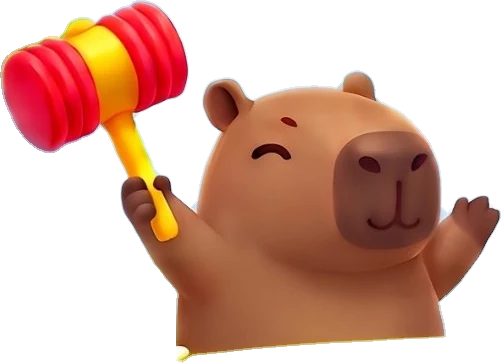
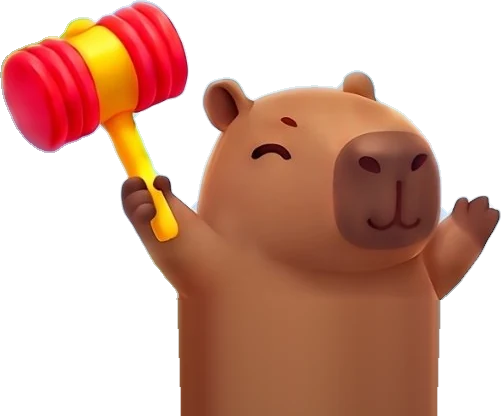
Home: extend the capybara's body below the waist so no cut edge shows
Claude-Session: https://claude.ai/code/session_0151HyQbunyEVHQk27fvCMAu

Changed region(s): [[0.0, 0.0, 1.0, 1.0]]

diff --git a/index.html b/index.html
@@ -19,7 +19,7 @@ body{margin:0;font:14px system-ui,sans-serif}
 </style>
 <script>
 (function () {
-  var BUILD = '20261109151933';
+  var BUILD = '20261109152102';
   function check() {
     fetch('version.txt?t=' + Date.now(), { cache: 'no-store' }).then(function (r) { return r.ok ? r.text() : BUILD; }).then(function (v) {
       v = (v || '').trim();
@@ -378,7 +378,7 @@ p.res-tap{display:flex;align-items:center;justify-content:center;gap:4px;font-fa
 @media (prefers-reduced-motion: reduce){*{animation-duration:1ms!important;animation-iteration-count:1!important}}
 
 /* ===== 3D redesign (backup of the previous look: backup/game.template.pre-redesign.html, git branch backup-pre-redesign) ===== */
-#home{background:#8FD3FF url(img/bg.webp?v=20261109151933) center bottom/cover no-repeat;background-attachment:local}
+#home{background:#8FD3FF url(img/bg.webp?v=20261109152102) center bottom/cover no-repeat;background-attachment:local}
 /* glancing over the shoulder: the art looks right, flipped half the time to look left */
 .char.peek.pl img.cimg{scale:-1 1}
 /* never squeeze the art to its box (some hosts add img{max-width:100%}) */
@@ -387,7 +387,7 @@ p.res-tap{display:flex;align-items:center;justify-content:center;gap:4px;font-fa
 /* duo: both seen from behind, and the capybara's back art reads smaller than the red panda's */
 #game.duo .char.capy img.cimg{scale:1.04}
 #game.duo .char.capy.peek.pl img.cimg{scale:-1.04 1.04}
-.fghill{position:absolute;left:0;top:0;width:100%;height:100%;z-index:1;pointer-events:none;background:url(img/hillfg.webp?v=20261109151933) center bottom/100% auto no-repeat}
+.fghill{position:absolute;left:0;top:0;width:100%;height:100%;z-index:1;pointer-events:none;background:url(img/hillfg.webp?v=20261109152102) center bottom/100% auto no-repeat}
 #home>.home-top,#home>.title,#home>.field{position:relative;z-index:2}
 #home>.fghill{position:absolute;flex:none;z-index:1}
 #home>.stage{z-index:0}
@@ -401,7 +401,7 @@ p.res-tap{display:flex;align-items:center;justify-content:center;gap:4px;font-fa
 .stage img.hc{flex:none;height:89.5%;width:auto;filter:drop-shadow(0 4px 6px rgba(40,60,20,.2))}
 .stage img.hc.pd{height:89%;translate:calc(var(--sh) * -.08) 0}
 /* capybara art from the mockup: hammer raised, cut at the waist, so it sits higher and the cut hides behind the hill */
-.stage img.hc.cu{translate:calc(var(--sh) * -.1) 0;height:calc(var(--sh) * .8);margin-bottom:calc(var(--sh) * .17)}
+.stage img.hc.cu{translate:calc(var(--sh) * -.1) 0;height:calc(var(--sh) * .917);margin-bottom:calc(var(--sh) * .053)}
 .stage .vsimg{flex:none;align-self:flex-end;height:calc(var(--sh) * .22);width:auto;margin:0 calc(var(--sh) * .01) calc(var(--sh) * .68) calc(var(--sh) * -.03);translate:calc(var(--sh) * -.15) 0;z-index:1;animation:bob 2.2s ease-in-out infinite;--r:0deg}
 .field{background:none;border-top:0;border-radius:0;padding-top:14px}
 .mcard{--d:color-mix(in srgb,var(--c) 70%,#5a2a3a);border:0;border-radius:24px;background:linear-gradient(180deg,color-mix(in srgb,var(--c) 70%,#fff) 0%,var(--c) 55%);box-shadow:0 6px 0 var(--d),0 10px 18px rgba(40,40,80,.22),inset 0 2px 0 rgba(255,255,255,.7)}
@@ -411,7 +411,7 @@ p.res-tap{display:flex;align-items:center;justify-content:center;gap:4px;font-fa
 .copy{color:#fff;opacity:.9;text-shadow:0 1px 3px rgba(0,0,0,.35)}
 @media (max-height:700px){.mmain{padding-block:6px}.micon{width:40px;height:40px}.mtext b{font-size:20px}.field{gap:9px;padding-top:8px}}
 /* game arena: the painted meadow; the opponent stands on the grassy ledge */
-#arena{background:#8FD3FF url(img/bg.webp?v=20261109151933) center 66%/cover no-repeat}
+#arena{background:#8FD3FF url(img/bg.webp?v=20261109152102) center 66%/cover no-repeat}
 #arena .sun,#arena .cloud,#arena .ground,#arena .ground2,#arena .groundT,#arena .groundT2,#arena .hill{display:none}
 .char img.cimg{height:100%;width:auto;display:block;animation:breathe 2.6s ease-in-out infinite;transform-origin:50% 100%;filter:drop-shadow(0 6px 5px rgba(30,50,20,.3));-webkit-user-drag:none;user-select:none}
 #char1 img.cimg{animation-delay:-1.3s}
@@ -433,7 +433,7 @@ p.res-tap{display:flex;align-items:center;justify-content:center;gap:4px;font-fa
 @keyframes drip{0%{transform:translateY(0);opacity:1}100%{transform:translateY(60px);opacity:0}}
 .tut-art.lobby img{height:100%;width:auto}
 /* letter tiles thrown on the first hit look like the toy block */
-.fly{background:url(img/block.webp?v=20261109151933) center/contain no-repeat;border:0;width:38px;height:38px;margin:-19px 0 0 -19px;box-shadow:none;color:#6B4A1E;padding-top:3px;box-sizing:border-box}
+.fly{background:url(img/block.webp?v=20261109152102) center/contain no-repeat;border:0;width:38px;height:38px;margin:-19px 0 0 -19px;box-shadow:none;color:#6B4A1E;padding-top:3px;box-sizing:border-box}
 </style>
 
 <style>
@@ -467,7 +467,7 @@ html,body{position:fixed;inset:0;overflow:hidden}
 <div id="app">
   <section id="home" class="screen">
     <div class="fghill" id="homeHill" aria-hidden="true"></div>
-    <div class="deco" aria-hidden="true"><img class="dtile" src="img/tileA.webp?v=20261109151933" alt="" style="left:3%;top:31%;--r:-8deg"><img class="dtile" src="img/tileQ.webp?v=20261109151933" alt="" style="right:3%;top:29%;--r:9deg;animation-delay:-1.2s"></div>
+    <div class="deco" aria-hidden="true"><img class="dtile" src="img/tileA.webp?v=20261109152102" alt="" style="left:3%;top:31%;--r:-8deg"><img class="dtile" src="img/tileQ.webp?v=20261109152102" alt="" style="right:3%;top:29%;--r:9deg;animation-delay:-1.2s"></div>
     <div class="home-top gut">
       <div class="lt-grp"><button class="pill" id="langBtn" type="button"></button><button class="pill nick-pill" id="nickBtn" type="button"></button></div>
       <div class="rt">
@@ -478,7 +478,7 @@ html,body{position:fixed;inset:0;overflow:hidden}
       </div>
     </div>
     <h1 class="title gut" aria-label="First n Last">
-      <img class="logo-img" src="img/logo.webp?v=20261109151933" alt="" draggable="false">
+      <img class="logo-img" src="img/logo.webp?v=20261109152102" alt="" draggable="false">
       <span class="ribbon" data-t="tagline"></span>
     </h1>
     <div class="stage" id="homeCast"></div>
@@ -503,7 +503,7 @@ html,body{position:fixed;inset:0;overflow:hidden}
       <div class="ground"></div><div class="ground2"></div><div class="groundT"></div><div class="groundT2"></div><div class="hill"></div>
       <div class="card" id="card1"><div class="nm" id="name1"></div><div class="hearts" id="hearts1"></div></div>
       <div class="hud" id="hud"><div class="clkwrap" id="clkW"><div class="clock" id="clock">2:00</div><div class="hint-cd" id="hintCd"></div></div></div>
-      <img class="plat" src="img/plat.webp?v=20261109151933" alt="" draggable="false"><div class="char" id="char1"></div>
+      <img class="plat" src="img/plat.webp?v=20261109152102" alt="" draggable="false"><div class="char" id="char1"></div>
       <div class="mid">
         <div class="side"><div class="tile tS">?</div><span data-t="startLbl"></span></div>
         <div id="center"></div>
@@ -745,7 +745,7 @@ const CHEV = '<svg viewBox="0 0 16 16" fill="none" stroke="currentColor" stroke-
 /* ---------- 3D character art (img/*.webp) ----------
    Each animal has 8 poses, seen from the front (f) and from behind (b):
    1 relaxed, 2 joyful jump, 3 puzzled scratch, 4 flinch, 5 one bandage, 6 two bandages, 7 knocked out, 8 wind-up throw */
-const IMGV = '20261109151933';
+const IMGV = '20261109152102';
 const img = n => `img/${n}.webp?v=${IMGV}`;
 const ANIMALS = ['capy', 'panda'];
 function preloadArt() {
